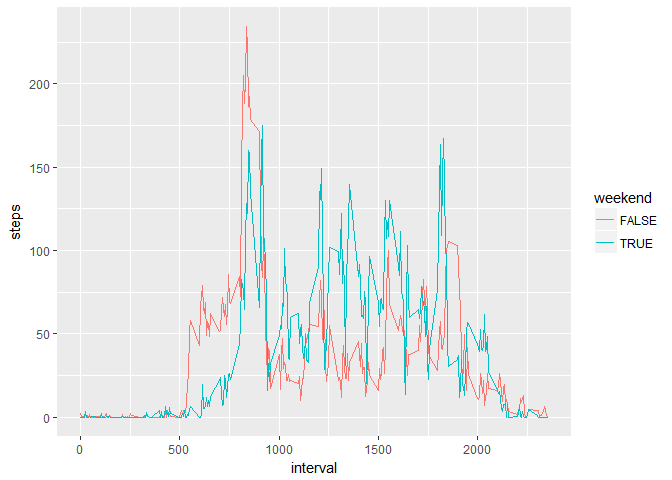
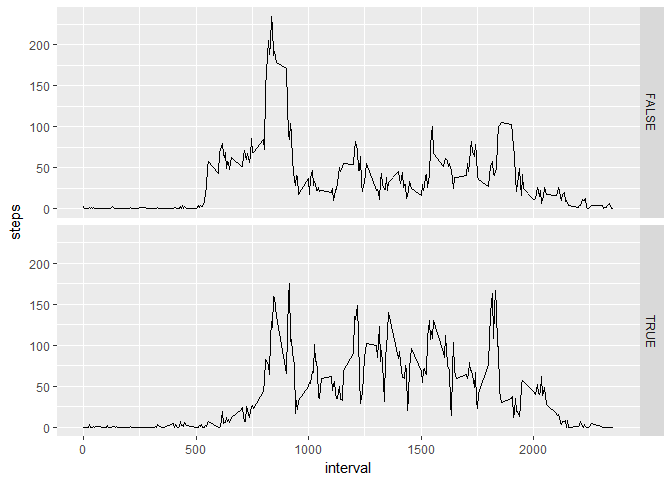
last commit

diff --git a/PA1_template.html b/PA1_template.html
@@ -215,8 +215,8 @@ avarageday&lt;-data%&gt;%
         summarize(steps=mean(steps, na.rm=T))
 
 p&lt;-ggplot(data=avarageday,aes(interval,steps))
-p+ geom_line(aes(color=weekend))</code></pre>
[1 lines of base64/hex data omitted]
+p+ geom_line()+facet_grid(weekend~.)</code></pre>
[1 lines of base64/hex data omitted]
 </div>
 </div>
 

diff --git a/PA1_template.md b/PA1_template.md
@@ -158,7 +158,7 @@ avarageday<-data%>%
         summarize(steps=mean(steps, na.rm=T))
 
 p<-ggplot(data=avarageday,aes(interval,steps))
-p+ geom_line(aes(color=weekend))
+p+ geom_line()+facet_grid(weekend~.)
 ```
 
 ![](PA1_template_files/figure-html/weekend-1.png)<!-- -->
